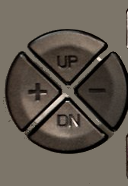
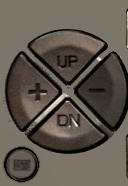
Modded simulator graphics for snapshot capabilities

Changed region(s): [[0.0, 0.7796, 0.3125, 0.9946]]

diff --git a/src/simulatordialog.cpp b/src/simulatordialog.cpp
@@ -128,7 +128,13 @@ void simulatorDialog::setupTimer()
 
 void simulatorDialog::onButtonPressed(int value)
 {
-  buttonPressed = value;
+  if (value==Qt::Key_Print) {
+      QString fileName = QString("./screenshot-%1.png").arg(++screenshotIdx);
+      qDebug() << "Screenshot" << fileName;
+      ui->lcd->makeScreenshot(fileName);      
+  } else {
+      buttonPressed = value;
+  }
 }
 
 void simulatorDialog::onTimerEvent()
@@ -220,13 +226,6 @@ void simulatorDialog::onTimerEvent()
     if (beepShow) beepShow--;
 
   }
-}
-
-void simulatorDialog::on_screenshotButton_clicked()
-{
-  QString fileName = QString("./screenshot-%1.png").arg(++screenshotIdx);
-  qDebug() << "Screenshot" << fileName;
-  ui->lcd->makeScreenshot(fileName);
 }
 
 void simulatorDialog::centerSticks()

diff --git a/src/cursorwidget.h b/src/cursorwidget.h
@@ -62,6 +62,9 @@ class cursorWidget : public QWidget {
           else if (pnpoly(6,plusx,plusy,(float)x,(float)y)==1) {
             setStyleSheet("background:url(:/images/9xcursplus.png);");
             emit buttonPressed(Qt::Key_Left);
+          } else if (sqrt(((float)x-22)*((float)x-22)+((float)y-165)*((float)y-165))<17) {
+            setStyleSheet("background:url(:/images/9xcursphoto.png);");
+            emit buttonPressed(Qt::Key_Print);
           }
         }
         // QWidget::mousePressEvent(event);

diff --git a/src/simulatordialog.h b/src/simulatordialog.h
@@ -100,7 +100,6 @@ private slots:
     void on_trimHRight_valueChanged(int);
     void on_trimVRight_valueChanged(int);
     void onTimerEvent();
-    void on_screenshotButton_clicked();
 };
 
 #endif // SIMULATORDIALOG_H
